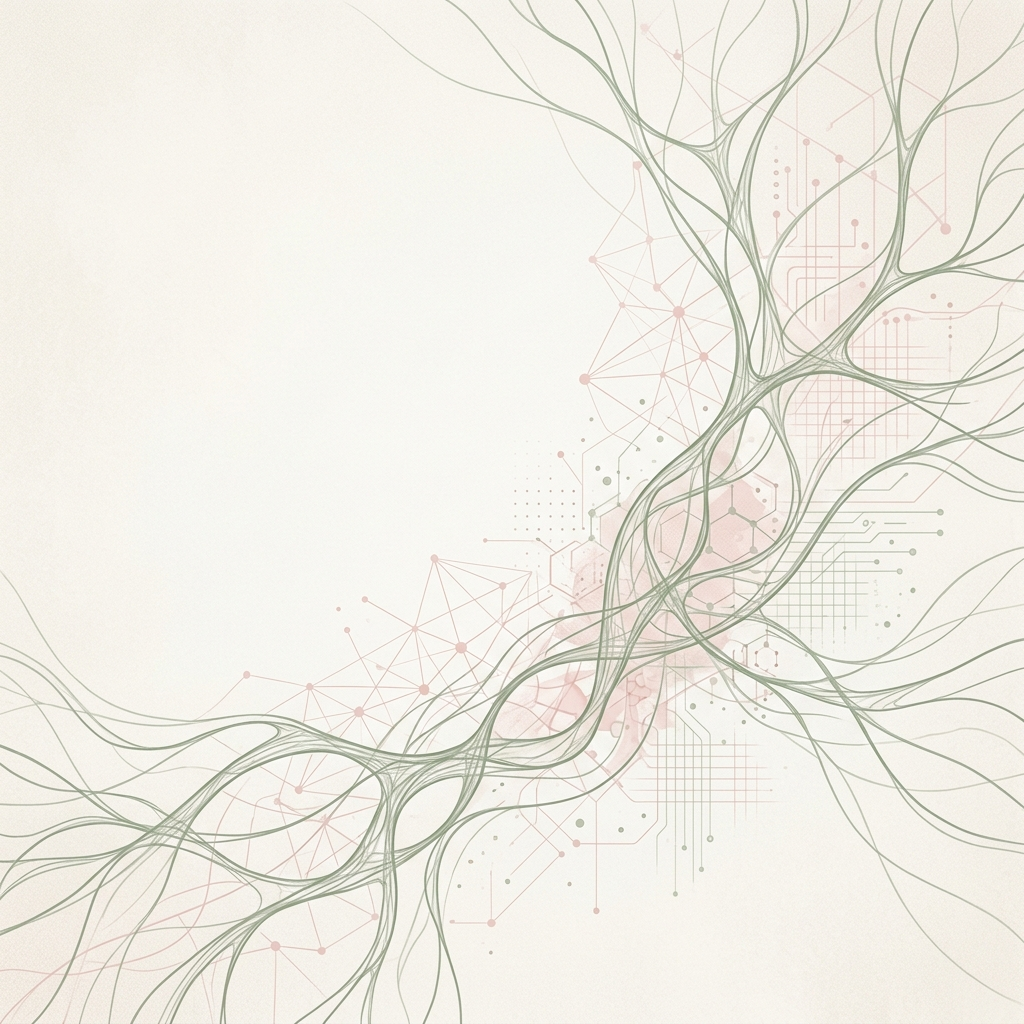
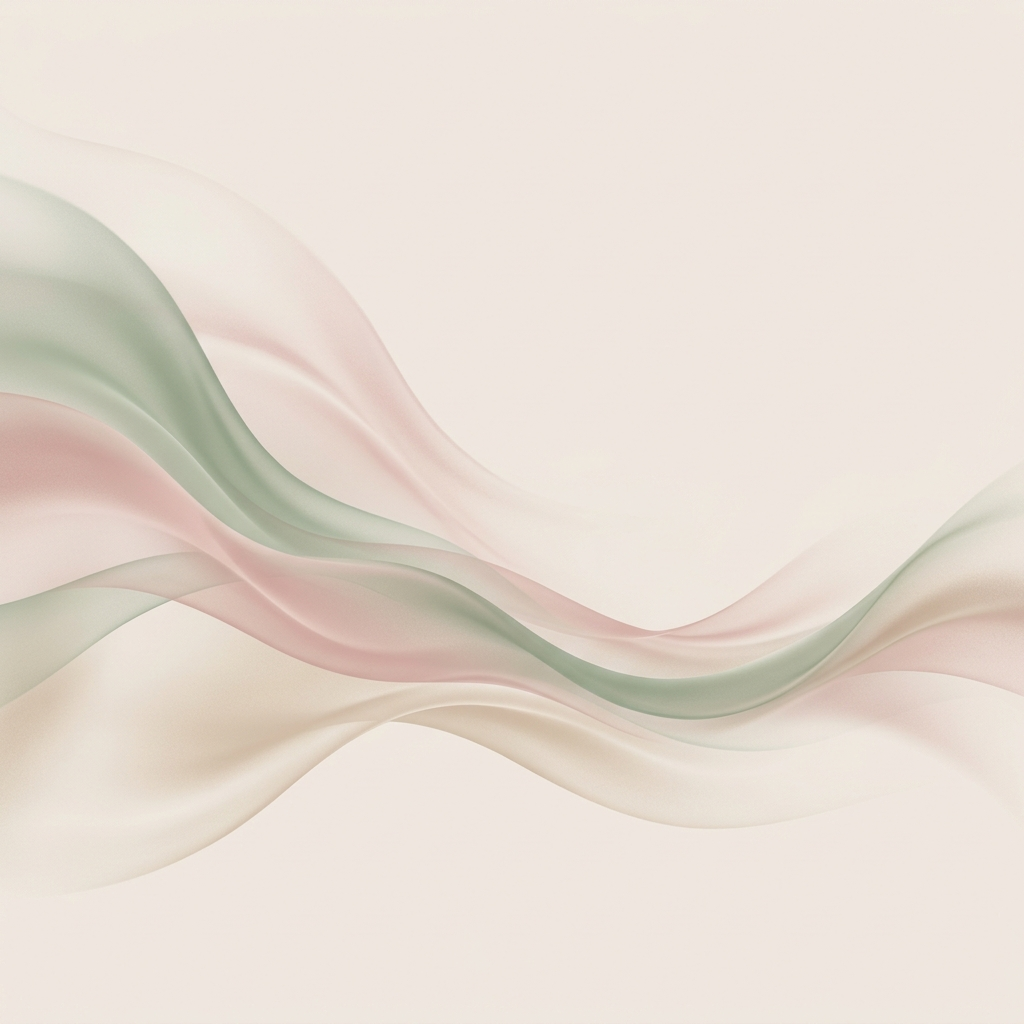
Design: Option 3 background

diff --git a/src/App.jsx b/src/App.jsx
@@ -61,7 +61,7 @@ function App() {
               <div className="w-8 h-8 bg-sage rounded-lg flex items-center justify-center text-white">
                 <Database size={16} />
               </div>
-              <span className="font-playfair text-xl font-bold text-text tracking-tight">Проект РНФ</span>
+              <span className="font-playfair text-xl font-bold text-text tracking-tight">Проект РНФ № 23-18-00480-П</span>
             </div>
           </div>
         </header>
